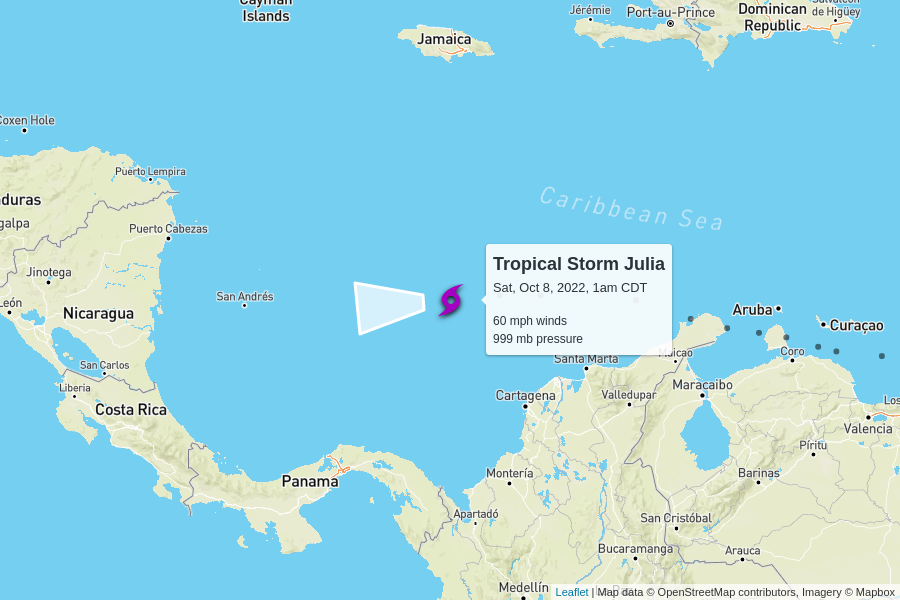
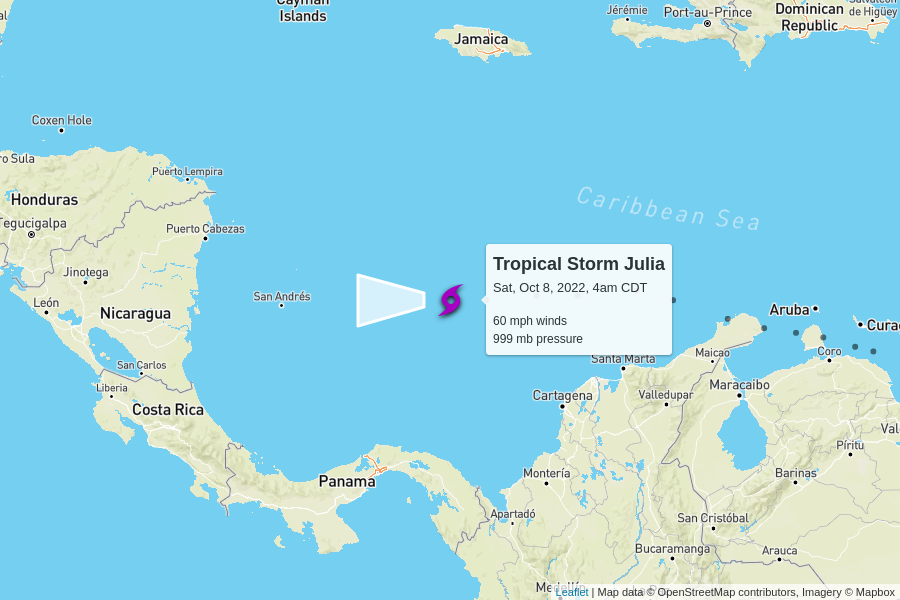
automatic update

diff --git a/docs/index.html b/docs/index.html
@@ -100,7 +100,7 @@
         <td colspan="6" class="storm category-0" >
           <h2>
             Tropical Storm Julia
-            <p class="updated">last updated <span data-time>2022-10-08T06:00:00.000Z</span></p>
+            <p class="updated">last updated <span data-time>2022-10-08T09:00:00.000Z</span></p>
           </h2>
         </td>
       </tr>
@@ -120,7 +120,7 @@
         <td>
           18 mph to the west
           <br/>
-          <span style="display: inline-block; font-size: 1.5em; transform: rotate(265deg);">↑</span>
+          <span style="display: inline-block; font-size: 1.5em; transform: rotate(270deg);">↑</span>
         </td>
         <td><a href="https://raw.githubusercontent.com/mgwalker/atlantic-hurricanes/main/data/csv/AL132022.csv">AL132022.csv</a></td>
         <td><a href="https://www.nhc.noaa.gov/archive/2022/JULIA.shtml?">NHC advisories</a></td>
